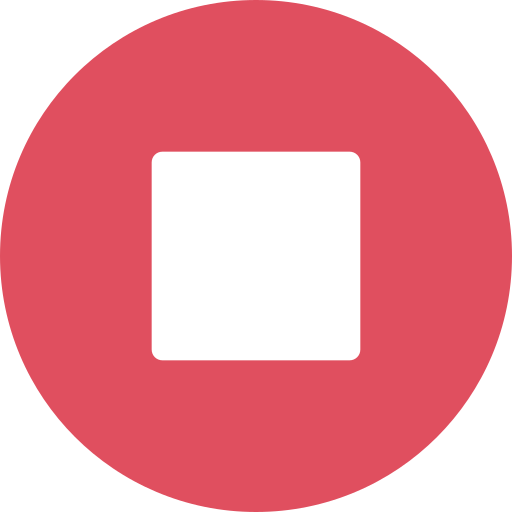
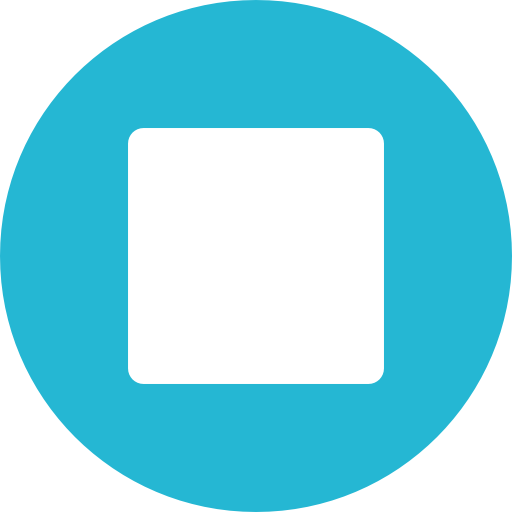
Update: 아이콘 변경 및 모바일 카메라 연동.

diff --git a/src/component/video/Webcam.js b/src/component/video/Webcam.js
@@ -3,18 +3,17 @@ import React from "react";
 import ReactPlayer from "react-player";
 import "./Webcam.css";
 
-const WebcamComponent = ({ mode }) => {
+const WebcamComponent = ({ mode,  }) => {
   const webcamRef = React.useRef(null);
   const mediaRecorderRef = React.useRef(null);
   const [capturing, setCapturing] = React.useState(false);
   const [recordedChunks, setRecordedChunks] = React.useState([]);
 
-
   const videoConstraints = {
     facingMode: "user",
   };
   const blob = new Blob(recordedChunks, {
-    type: "video/webm",
+    type: "video/mp4",
   });
   const url = URL.createObjectURL(blob);
 
@@ -32,9 +31,23 @@ const WebcamComponent = ({ mode }) => {
   const handleStartCaptureClick = React.useCallback(() => {
     setCapturing(true);
     setRecordedChunks([]);
-    mediaRecorderRef.current = new MediaRecorder(webcamRef.current.stream, {
-      mimeType: "video/webm",
-    });
+
+    let options = {};
+    if (MediaRecorder.isTypeSupported("video/webm; codecs=vp9")) {
+      options = { mimeType: "video/webm; codecs=vp9" };
+    } else if (MediaRecorder.isTypeSupported("video/webm")) {
+      options = { mimeType: "video/webm" };
+    } else if (MediaRecorder.isTypeSupported("video/mp4")) {
+      options = { mimeType: "video/mp4" };
+    } else {
+      console.error("No suitable mimeType found for this device");
+    }
+
+    mediaRecorderRef.current = new MediaRecorder(
+      webcamRef.current.stream,
+      options
+    );
+
     mediaRecorderRef.current.addEventListener(
       "dataavailable",
       handleDataAvailable
@@ -62,7 +75,7 @@ const WebcamComponent = ({ mode }) => {
   // const handleDownload = React.useCallback(() => {
   //   if (recordedChunks.length) {
   //     const blob = new Blob(recordedChunks, {
-  //       type: "video/webm",
+  //       type: "video/mp4",
   //     });
   //     const url = URL.createObjectURL(blob);
   //     const a = document.createElement("a");
@@ -101,11 +114,11 @@ const WebcamComponent = ({ mode }) => {
           !rec &&
           (capturing ? (
             <button onClick={handleStopCaptureClick}>
-              <img src="img/녹화중지.png" alt="녹화중지" className="rb" />
+              <img src="img/녹화종료.png" alt="녹화중지" className="rb" />
             </button>
           ) : (
             <button onClick={handleStartCaptureClick}>
-              <img src="img/녹화.png" alt="녹화" className="rb" />
+              <img src="img/녹화시작.png" alt="녹화" className="rb" />
             </button>
           ))}
         {/* {recordedChunks.length > 0 && (
